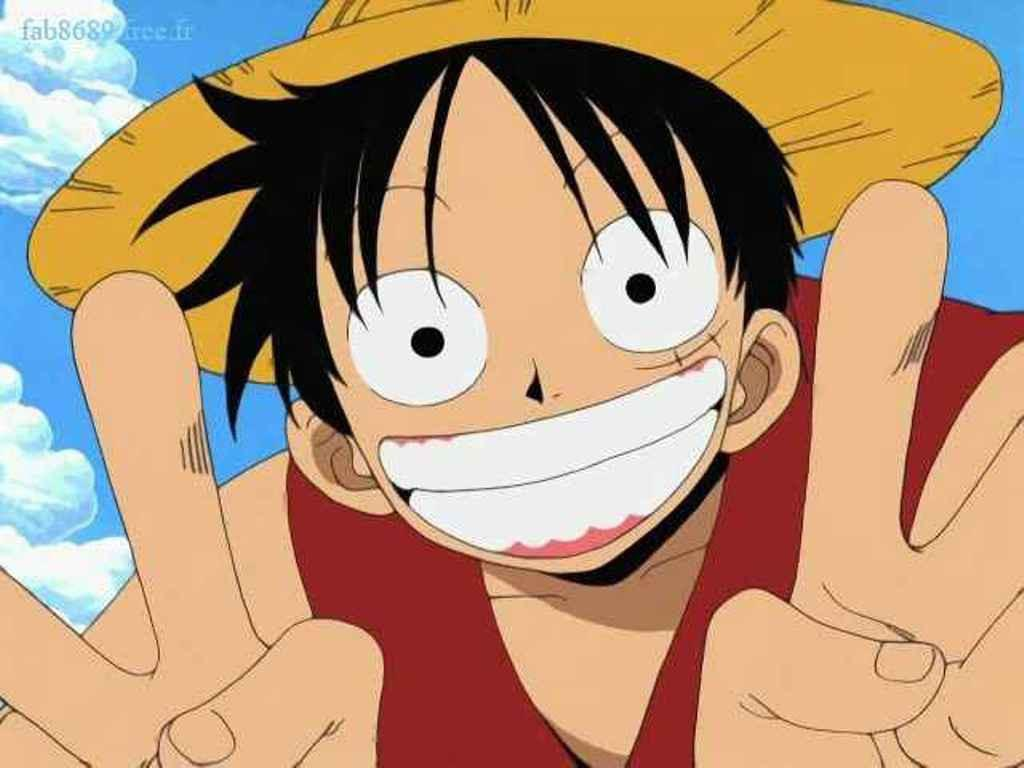
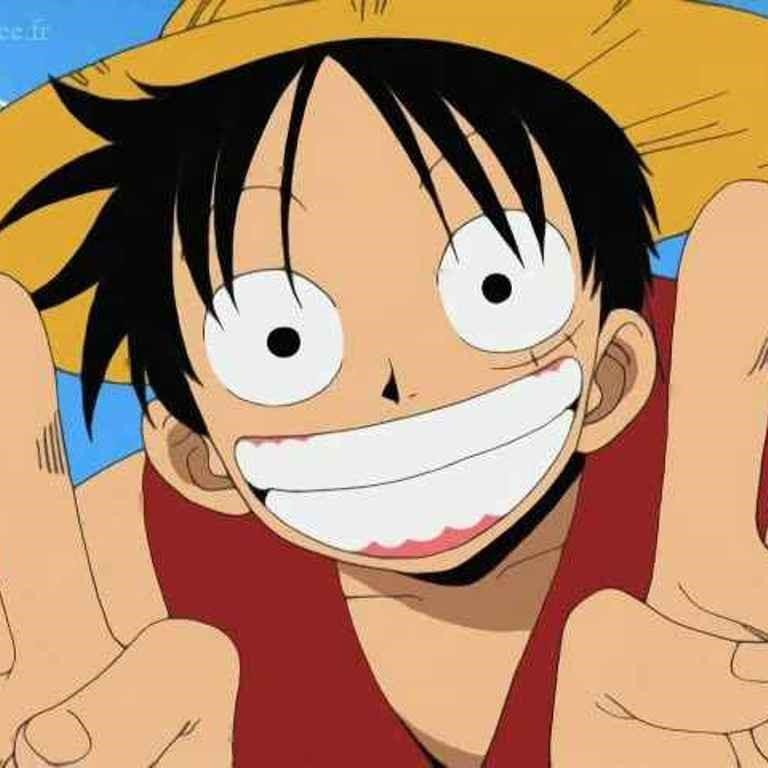
profil

diff --git a/resources/views/layout/v_kaprodi.blade.php b/resources/views/layout/v_kaprodi.blade.php
@@ -56,7 +56,7 @@
                 <!-- Sidebar user panel -->
                 <div class="user-panel">
                     <div class="pull-left image">
-                        <img src="{{asset('adminlte')}}/dist/img/user2-160x160.jpg" class="img-circle" alt="User Image">
+                        <img src="{{asset('gambar')}}/gbr1.jpg" class="img-circle" alt="User Image">
                     </div>
                     <div class="pull-left info">
                         <p>Rizal Pradana</p>
